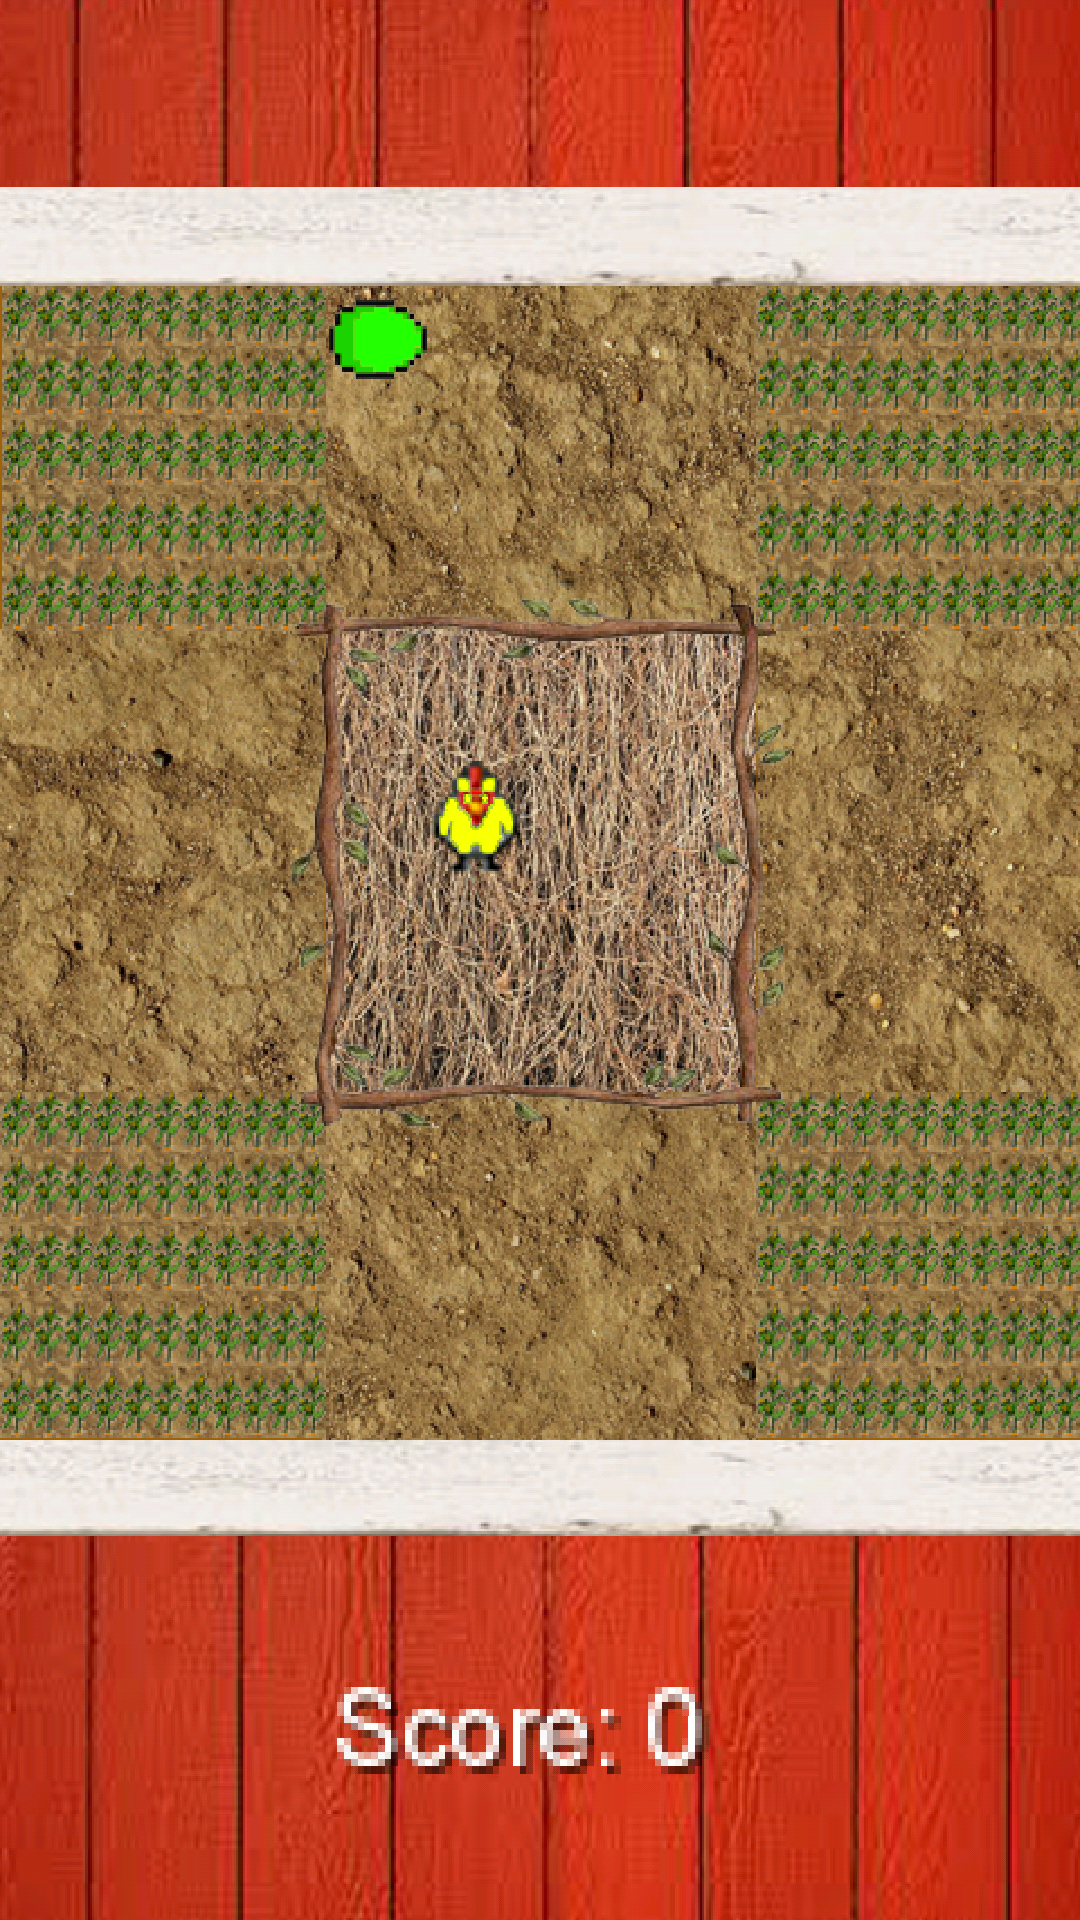
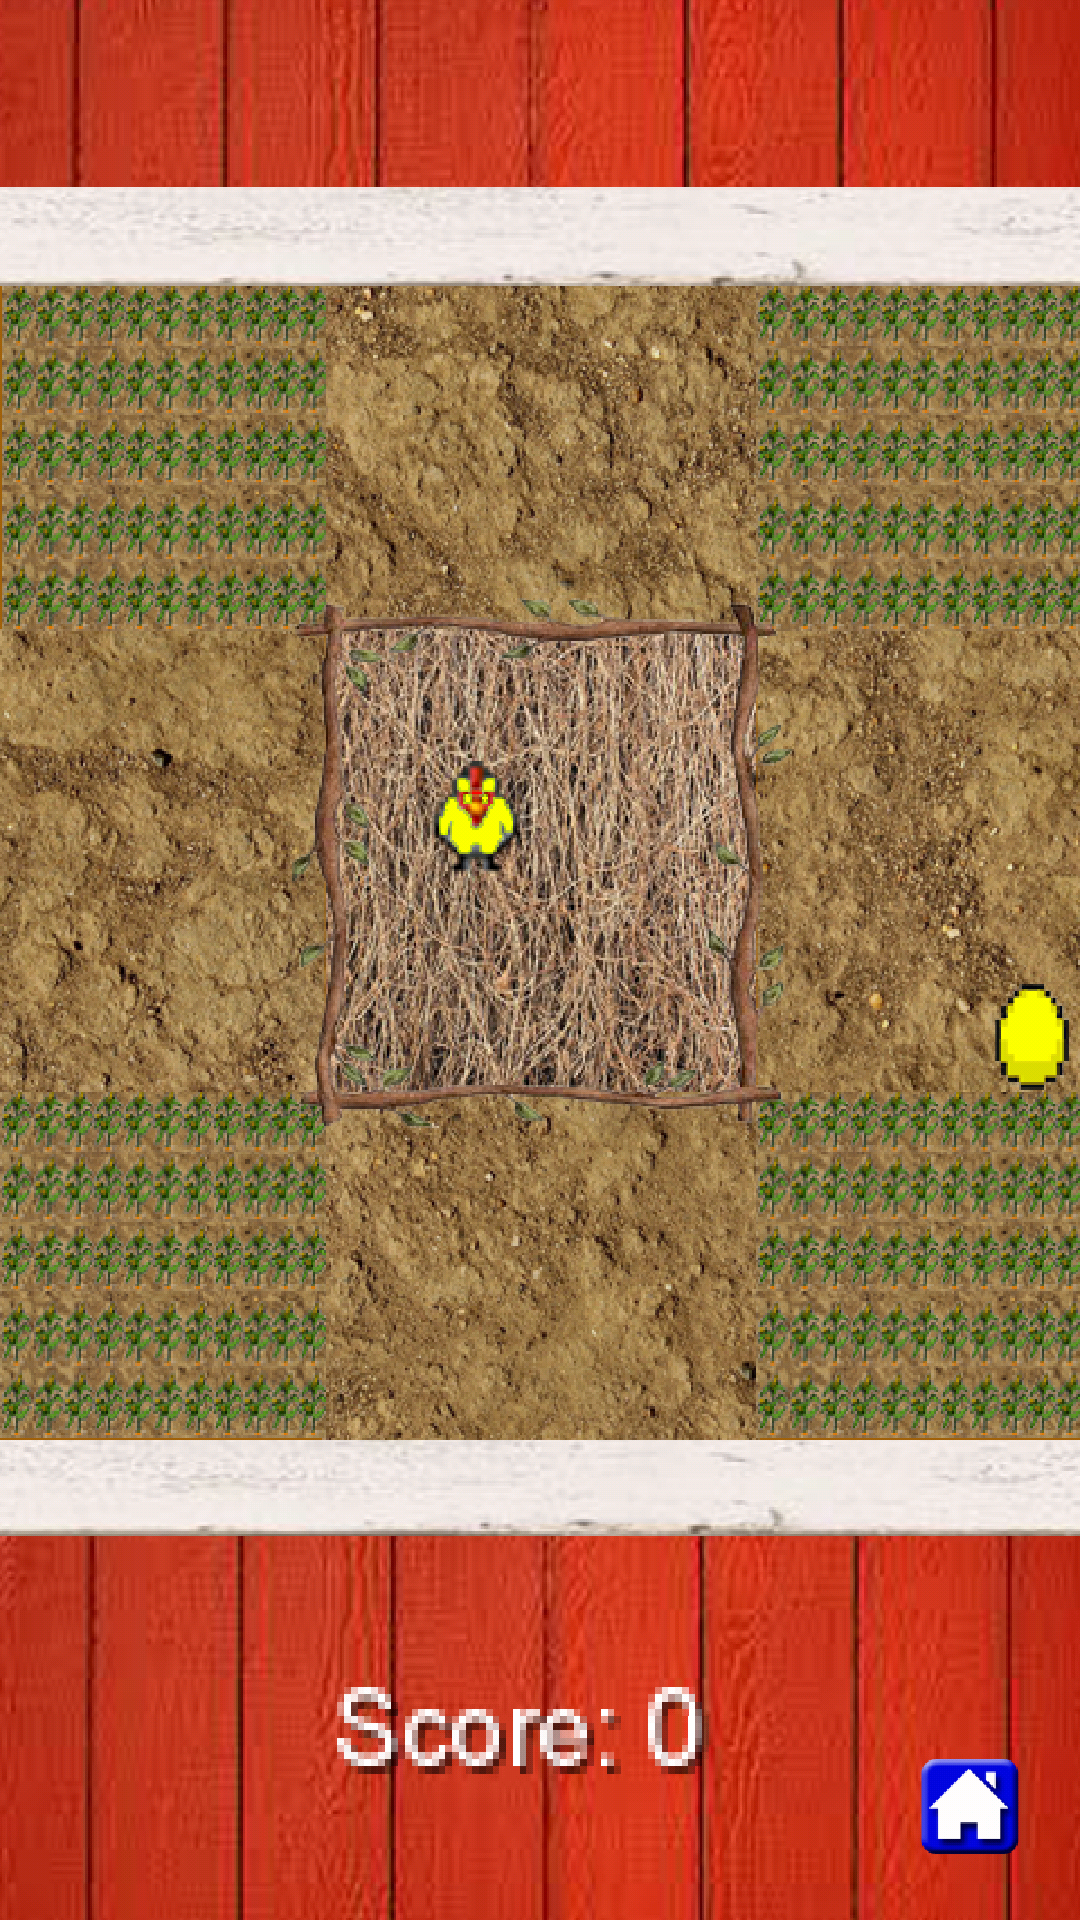
finished rough outline of how to play webpage

Changed region(s): [[0.9167, 0.5, 1.0, 0.5938], [0.8556, 0.9062, 0.9472, 0.9688], [0.3056, 0.1562, 0.3972, 0.2188]]

diff --git a/how-to-play.html b/how-to-play.html
@@ -30,7 +30,8 @@ Released   : 2009-07-28
             <h1>BAWK!</h1>
         </div>
 
-                <div id="main">
+        
+        <div id="main">
         
             <div class="main_left">
                 <img src="initialgameplay.png" style = "height:50em; width:30em"/>
@@ -42,15 +43,61 @@ Released   : 2009-07-28
 
             </div>
 
+
             <div class="main_left">
-                <img src="BawkEggSameColor.gif" style = "height:50em; width:30em"/>
+                <img src="bawkdestroyseggs.png" style = "height:50em; width:30em"/>
             </div>   
 
             <div class="main_right">
                 
-                <p><br/><br/><br/><br/><br/><br/><br/><br/><br/><br/>The chicken shoots a laser out of its eyes when the player taps the screen. <br/> The laser corresponds to the color of the chicken. Meanwhile, eggs begin generating around the perimeter of the screen.</p>
+                <p><br/><br/><br/><br/><br/><br/><br/><br/><br/><br/>The chicken shoots a laser out of its eyes when the player taps the screen. <br/> The laser corresponds to the color of the chicken. A laser destroys an egg if <br/> the chicken is the same color as the egg. The player receives a point every <br/> time an egg is destroyed.</p>
 
-            </div>        
+            </div>
+
+
+            <div class="main_left">
+                <img src="bawkdestroyseggs.png" style = "height:50em; width:30em"/>
+            </div>   
+
+            <div class="main_right">
+                
+                <p><br/><br/><br/><br/><br/><br/><br/><br/><br/><br/>If the chicken and the egg are different colors, then they swap colors.</p>
+
+            </div>  
+
+
+            <div class="main_left">
+                <img src="generatingeggs.png" style = "height:50em; width:30em"/>
+            </div>   
+
+            <div class="main_right">
+                
+                <p><br/><br/><br/><br/><br/><br/><br/><br/><br/><br/>Throughout gameplay, eggs begin randomly generating around the nest.</p>
+
+            </div>     
+
+
+            <div class="main_left">
+                <img src="gameover.png" style = "height:50em; width:30em"/>
+            </div>   
+
+            <div class="main_right">
+                
+                <p><br/><br/><br/><br/><br/><br/><br/><br/><br/><br/>The game ends when a row of eggs reaches the nest.</p>
+
+            </div>
+
+            <div class="main_left">
+                <img src="highscore.png" style = "height:50em; width:30em"/>
+            </div>   
+
+            <div class="main_right">
+                
+                <p><br/><br/><br/><br/><br/><br/><br/><br/><br/><br/>The player is shown both the final score and the overall high score of the game. The player can either return to the main menu or play again. </p>
+
+            </div>       
+
+
             
             <div class="main_bottom"></div>
             
